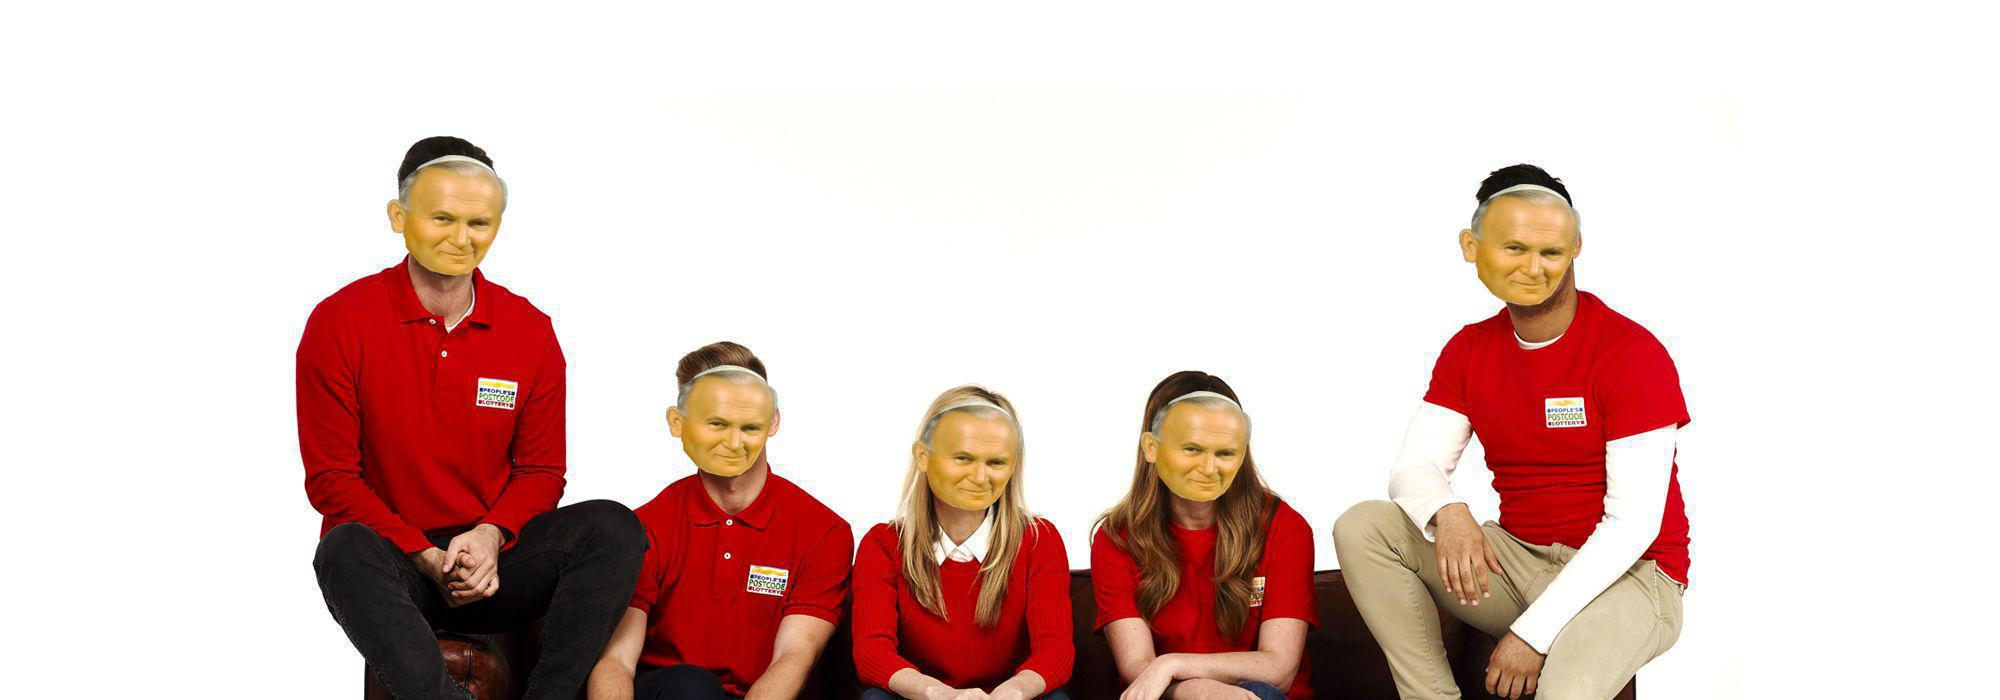
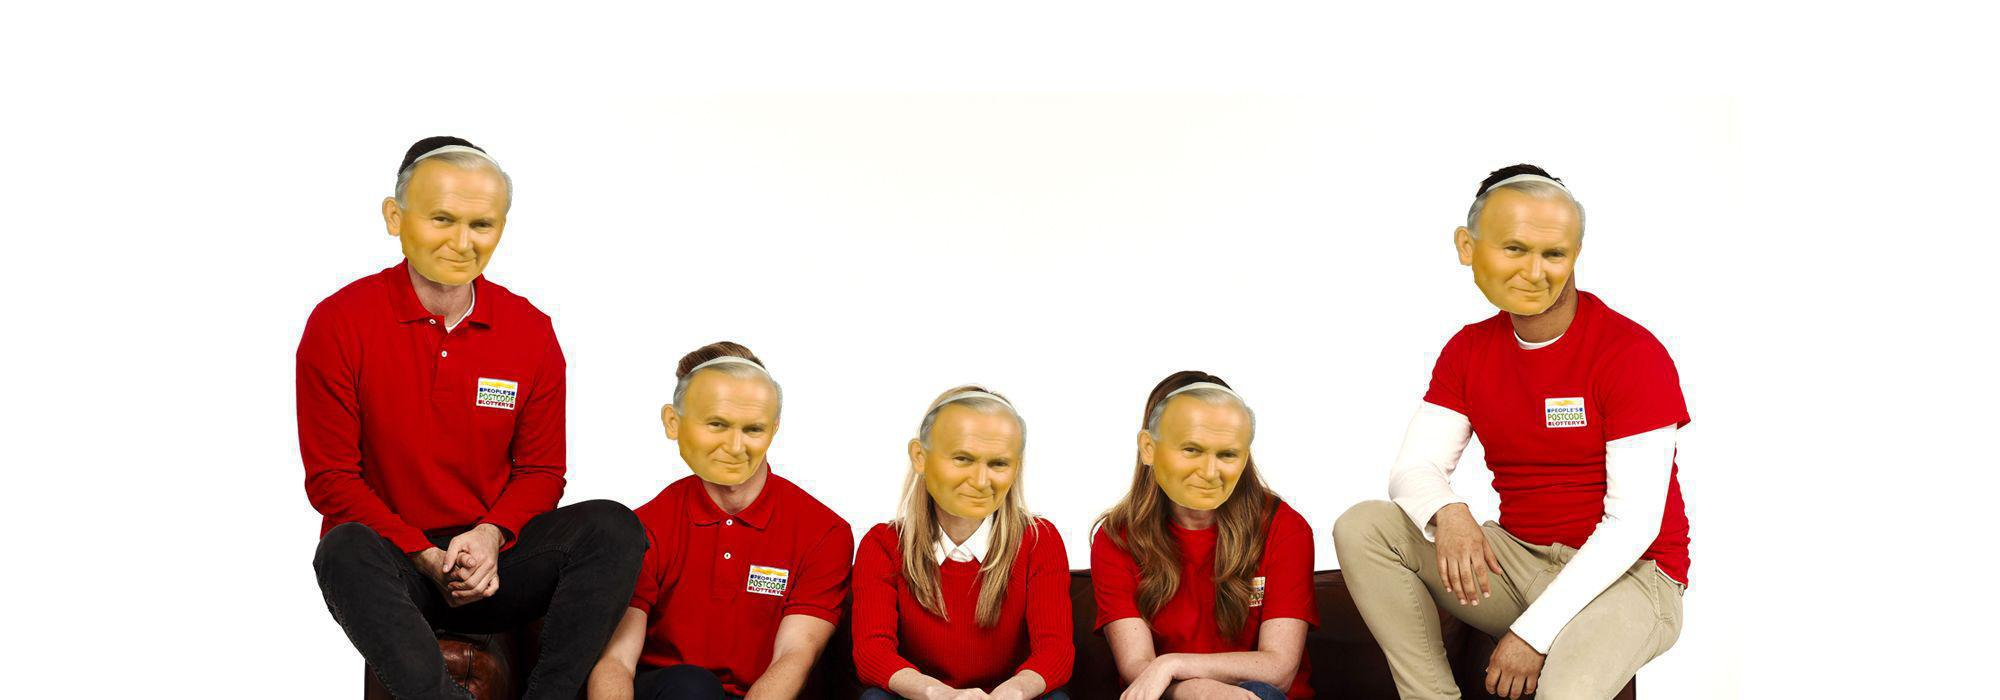
Fixed 403 error for papiezify

diff --git a/jb2/comm_papiezify.py b/jb2/comm_papiezify.py
@@ -1,6 +1,7 @@
 import random
 import re
-import urllib.request
+import shutil
+import requests
 import cv2
 import discord
 
@@ -33,7 +34,17 @@ class PapiezifyCommand(jb2.command.Command):
             cascadePath = 'res/xml/haarcascade_frontalface_default.xml'
 
             try:
-                urllib.request.urlretrieve(url, full_path)
+                r = requests.get(url, stream=True)
+                if r.status_code == 200:
+                    with open(full_path, 'wb') as f:
+                        r.raw.decode_content = True
+                        shutil.copyfileobj(r.raw, f)
+                else:
+                    text = "Nie można było pobrać obrazka"
+                    emb = jb2.embed.error_embed(author_m, text)
+                    await client.send_message(message.channel, embed=emb)
+                    raise Exception
+
                 img = cv2.imread(full_path, cv2.IMREAD_UNCHANGED)
                 face_cascade = cv2.CascadeClassifier(cascadePath)
                 gray = cv2.cvtColor(img, cv2.COLOR_BGR2GRAY)
@@ -46,8 +57,8 @@ class PapiezifyCommand(jb2.command.Command):
                 )
                 for (x, y, w, h) in faces:
                     img = cv2.imread(full_path, cv2.IMREAD_UNCHANGED)
-                    x_o = int(0.1 * w)
-                    y_o = int(0.1 * h)
+                    x_o = int(0.15 * w)
+                    y_o = int(0.2 * h)
 
                     image = Image.open(full_path)
                     papaj = Image.open(papaj_path)
@@ -64,4 +75,5 @@ class PapiezifyCommand(jb2.command.Command):
                 text = "Nieprawidłowy URL"
                 emb = jb2.embed.error_embed(author_m, text)
                 await client.send_message(message.channel, embed=emb)
+
 
